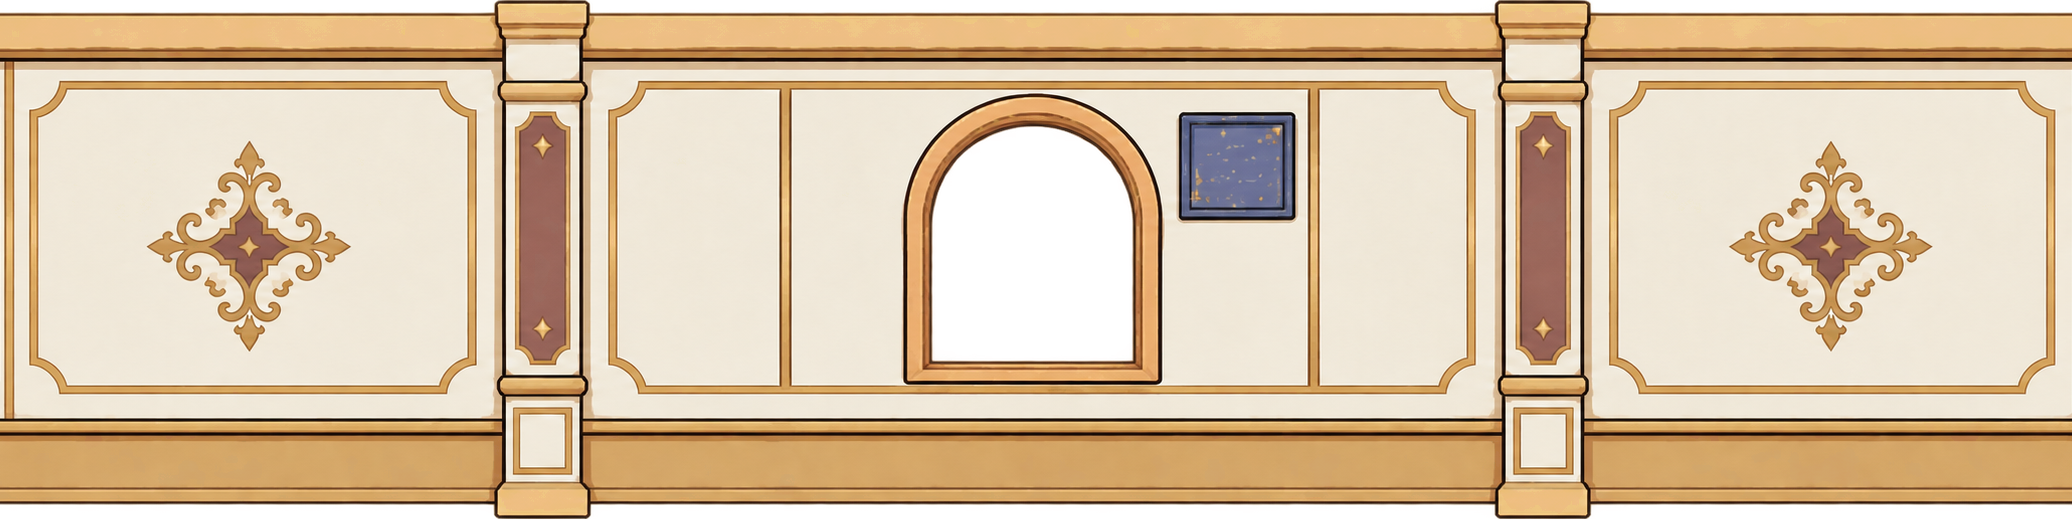
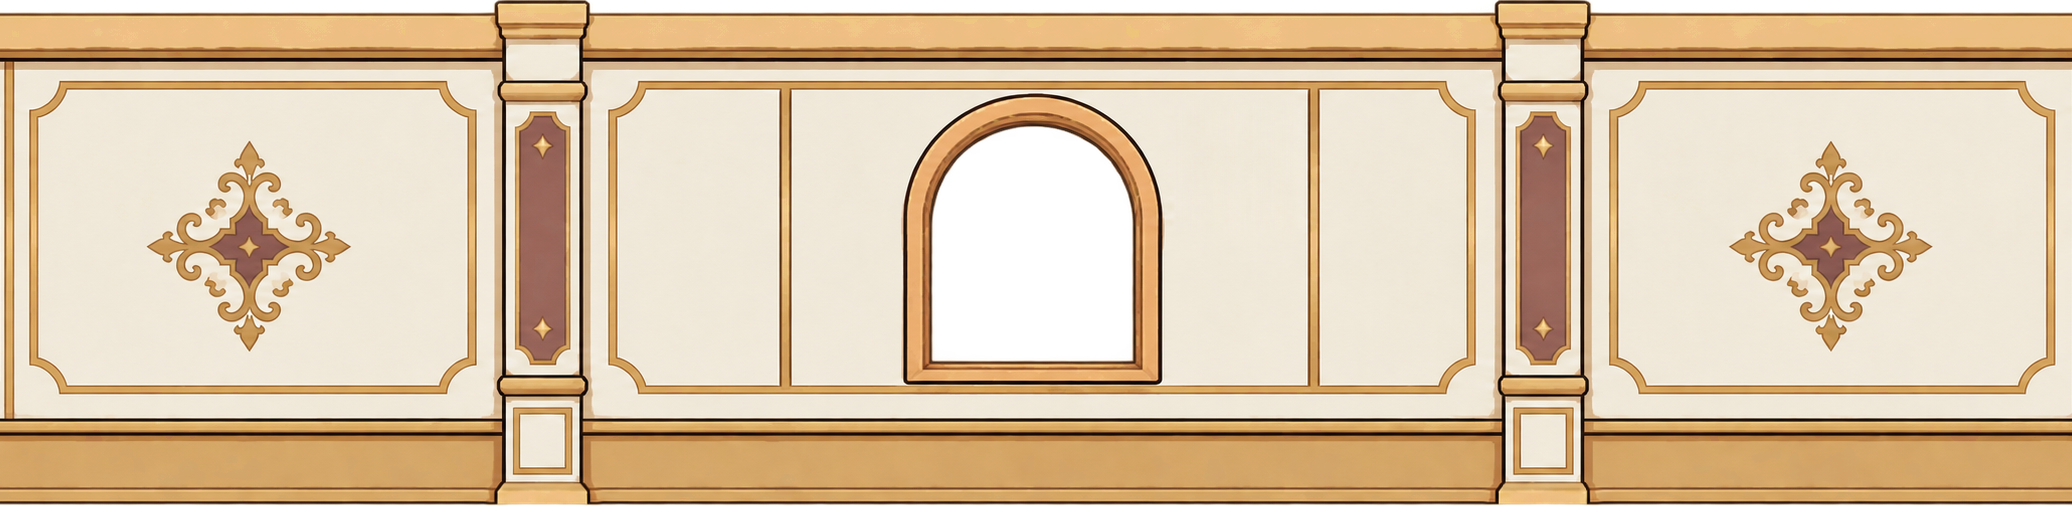
fix: 배경 변경
피드백 기반 배경 변경
1. 관측방 액자 제거
2. 관측방 기둥과 바닥이 띄워져있는 부분수정
3. 별똥별 빈도수 조금 더 높게 수정

diff --git a/Project_Cozy/Assets/Editor/DecorationArtSampleSceneBuilder.cs b/Project_Cozy/Assets/Editor/DecorationArtSampleSceneBuilder.cs
@@ -1,0 +1,132 @@
+using System;
+using System.Collections.Generic;
+using System.IO;
+using UnityEditor;
+using UnityEditor.SceneManagement;
+using UnityEngine;
+using UnityEngine.Rendering.Universal;
+using UnityEngine.SceneManagement;
+
+/// <summary>장식 프리팹을 게임 배율 그대로 한 줄에 놓는 아트 확인용 씬 생성 메뉴.</summary>
+public static class DecorationArtSampleSceneBuilder
+{
+    private const string DecorationRoot = "Assets/Resources/Decorations";
+    private const string SceneFolder = "Assets/Scenes/ArtSample";
+    private const float GapPixels = 80f;
+    private const float PixelsPerUnit = 100f;
+
+    [MenuItem("Cozy/Art/장식 전체 나열 Sample Scene 만들기")]
+    public static void CreateScene()
+    {
+        if (!EditorSceneManager.SaveCurrentModifiedScenesIfUserWantsTo()) return;
+
+        List<string> paths = FindDecorationPaths();
+        if (paths.Count == 0)
+        {
+            Debug.LogWarning("장식 프리팹을 찾지 못했습니다: " + DecorationRoot);
+            return;
+        }
+
+        Scene scene = EditorSceneManager.NewScene(NewSceneSetup.EmptyScene, NewSceneMode.Single);
+        var root = new GameObject("Art Decorations - Game Scale");
+        float rightEdge = PlaceDecorations(paths, root.transform, scene);
+        Camera camera = CreateCamera(rightEdge);
+        CreateLighting();
+        SaveScene(scene);
+        FrameSceneView(camera);
+        Debug.Log($"장식 {paths.Count}종을 원본 프리팹 배율로 나열했습니다. Play에서 하단 스크롤바로 좌우 이동합니다.");
+    }
+
+    private static List<string> FindDecorationPaths()
+    {
+        var paths = new List<string>();
+        foreach (string guid in AssetDatabase.FindAssets("t:Prefab", new[] { DecorationRoot }))
+        {
+            string path = AssetDatabase.GUIDToAssetPath(guid);
+            if (Path.GetFileName(path) == "decoration.prefab") paths.Add(path);
+        }
+        paths.Sort(StringComparer.Ordinal);
+        return paths;
+    }
+
+    private static float PlaceDecorations(List<string> paths, Transform parent, Scene scene)
+    {
+        float cursor = 0f;
+        foreach (string path in paths)
+        {
+            var prefab = AssetDatabase.LoadAssetAtPath<GameObject>(path);
+            var instance = (GameObject)PrefabUtility.InstantiatePrefab(prefab, scene);
+            instance.name = Path.GetFileName(Path.GetDirectoryName(path));
+            instance.transform.SetParent(parent, false);
+            Bounds bounds = GetVisibleBounds(instance);
+            // 배율은 게임의 DecorationLayer처럼 프리팹 값을 그대로 둡니다. 아래 끝만 지면에 맞춥니다.
+            instance.transform.position += new Vector3(cursor - bounds.min.x, -bounds.min.y, 0);
+            cursor += bounds.size.x + GapPixels / PixelsPerUnit;
+        }
+        return cursor - GapPixels / PixelsPerUnit;
+    }
+
+    private static Bounds GetVisibleBounds(GameObject instance)
+    {
+        Bounds bounds = default;
+        bool found = false;
+        foreach (SpriteRenderer renderer in instance.GetComponentsInChildren<SpriteRenderer>())
+        {
+            if (!renderer.enabled || renderer.sprite == null || !renderer.gameObject.activeInHierarchy) continue;
+            if (!found) bounds = renderer.bounds;
+            else bounds.Encapsulate(renderer.bounds);
+            found = true;
+        }
+        if (!found) throw new InvalidOperationException("표시할 스프라이트가 없습니다: " + instance.name);
+        return bounds;
+    }
+
+    private static Camera CreateCamera(float rightEdge)
+    {
+        var cameraObject = new GameObject("Main Camera");
+        cameraObject.tag = "MainCamera";
+        var camera = cameraObject.AddComponent<Camera>();
+        camera.orthographic = true;
+        camera.clearFlags = CameraClearFlags.SolidColor;
+        camera.backgroundColor = new Color(0.22f, 0.25f, 0.3f, 1);
+        cameraObject.AddComponent<AudioListener>();
+        cameraObject.AddComponent<DecorationArtSampleCamera>().Configure(0, rightEdge);
+        return camera;
+    }
+
+    private static void CreateLighting()
+    {
+        var light = new GameObject("Global Light 2D").AddComponent<Light2D>();
+        light.lightType = Light2D.LightType.Global;
+        light.intensity = 1;
+    }
+
+    private static void SaveScene(Scene scene)
+    {
+        EnsureFolder(SceneFolder);
+        string path = AssetDatabase.GenerateUniqueAssetPath(SceneFolder + "/DecorationLineupSample.unity");
+        if (!EditorSceneManager.SaveScene(scene, path))
+            throw new IOException("샘플 씬을 저장하지 못했습니다: " + path);
+    }
+
+    private static void EnsureFolder(string path)
+    {
+        if (AssetDatabase.IsValidFolder(path)) return;
+        string parent = Path.GetDirectoryName(path).Replace('\\', '/');
+        EnsureFolder(parent);
+        AssetDatabase.CreateFolder(parent, Path.GetFileName(path));
+    }
+
+    private static void FrameSceneView(Camera camera)
+    {
+        SceneView view = SceneView.lastActiveSceneView;
+        if (view == null) return;
+        view.in2DMode = true;
+        Vector3 center = camera.transform.position;
+        center.z = 0;
+        view.LookAt(center, Quaternion.identity, camera.orthographicSize, true);
+    }
+
+    [MenuItem("Cozy/Art/장식 전체 나열 Sample Scene 만들기", true)]
+    private static bool CanCreateScene() => !EditorApplication.isPlayingOrWillChangePlaymode;
+}

diff --git a/Project_Cozy/Assets/Scripts/Examples/DecorationArtSampleCamera.cs b/Project_Cozy/Assets/Scripts/Examples/DecorationArtSampleCamera.cs
@@ -1,0 +1,79 @@
+using UnityEngine;
+
+/// <summary>
+/// 장식 나열 샘플 전용 카메라. 게임의 기본 줌과 같은 폭 기준 배율을 유지하고 가로 위치만 옮깁니다.
+/// 본편 씬에는 사용하지 않습니다.
+/// </summary>
+[RequireComponent(typeof(Camera))]
+public sealed class DecorationArtSampleCamera : MonoBehaviour
+{
+    // 게임의 마스터 캔버스 폭 3840px / 월드 PPU 100. 전체 나열 폭에 맞춰 축소하지 않습니다.
+    private const float ViewWidth = 38.4f;
+    private const float FloorMargin = 0.8f;
+    private const float PageStep = ViewWidth * 0.8f;
+
+    [SerializeField] private float leftEdge;
+    [SerializeField] private float rightEdge;
+
+    private Camera sampleCamera;
+    private float lastAspect;
+
+    public void Configure(float left, float right)
+    {
+        leftEdge = left;
+        rightEdge = right;
+        sampleCamera = GetComponent<Camera>();
+        UpdateFraming();
+        MoveTo(leftEdge);
+    }
+
+    private void Awake()
+    {
+        sampleCamera = GetComponent<Camera>();
+        UpdateFraming();
+    }
+
+    private void LateUpdate()
+    {
+        if (!Mathf.Approximately(lastAspect, sampleCamera.aspect)) UpdateFraming();
+    }
+
+    private void UpdateFraming()
+    {
+        lastAspect = Mathf.Max(sampleCamera.aspect, 0.01f);
+        sampleCamera.orthographic = true;
+        sampleCamera.orthographicSize = ViewWidth / (2 * lastAspect);
+        Vector3 position = transform.position;
+        position.y = sampleCamera.orthographicSize - FloorMargin;
+        position.z = -10;
+        transform.position = position;
+    }
+
+    private void MoveTo(float left)
+    {
+        float maximum = Mathf.Max(leftEdge, rightEdge - ViewWidth);
+        Vector3 position = transform.position;
+        position.x = Mathf.Clamp(left, leftEdge, maximum) + ViewWidth / 2;
+        transform.position = position;
+    }
+
+    private void OnGUI()
+    {
+        // 아트 확인용 조작부. 상품 UI나 저장 시스템을 만들지 않는 독립 샘플입니다.
+        GUILayout.BeginArea(new Rect(12, 12, 460, 75), GUI.skin.box);
+        GUILayout.Label("Art decorations | Game scale (zoom 1) | Scroll to browse");
+        GUILayout.BeginHorizontal();
+        if (GUILayout.Button("First")) MoveTo(leftEdge);
+        if (GUILayout.Button("Previous")) MoveTo(transform.position.x - ViewWidth / 2 - PageStep);
+        if (GUILayout.Button("Next")) MoveTo(transform.position.x - ViewWidth / 2 + PageStep);
+        if (GUILayout.Button("Last")) MoveTo(rightEdge - ViewWidth);
+        GUILayout.EndHorizontal();
+        GUILayout.EndArea();
+
+        float currentLeft = transform.position.x - ViewWidth / 2;
+        float end = Mathf.Max(rightEdge, leftEdge + ViewWidth);
+        float newLeft = GUI.HorizontalScrollbar(new Rect(12, Screen.height - 30, Screen.width - 24, 18),
+            currentLeft, ViewWidth, leftEdge, end);
+        if (!Mathf.Approximately(currentLeft, newLeft)) MoveTo(newLeft);
+    }
+}
